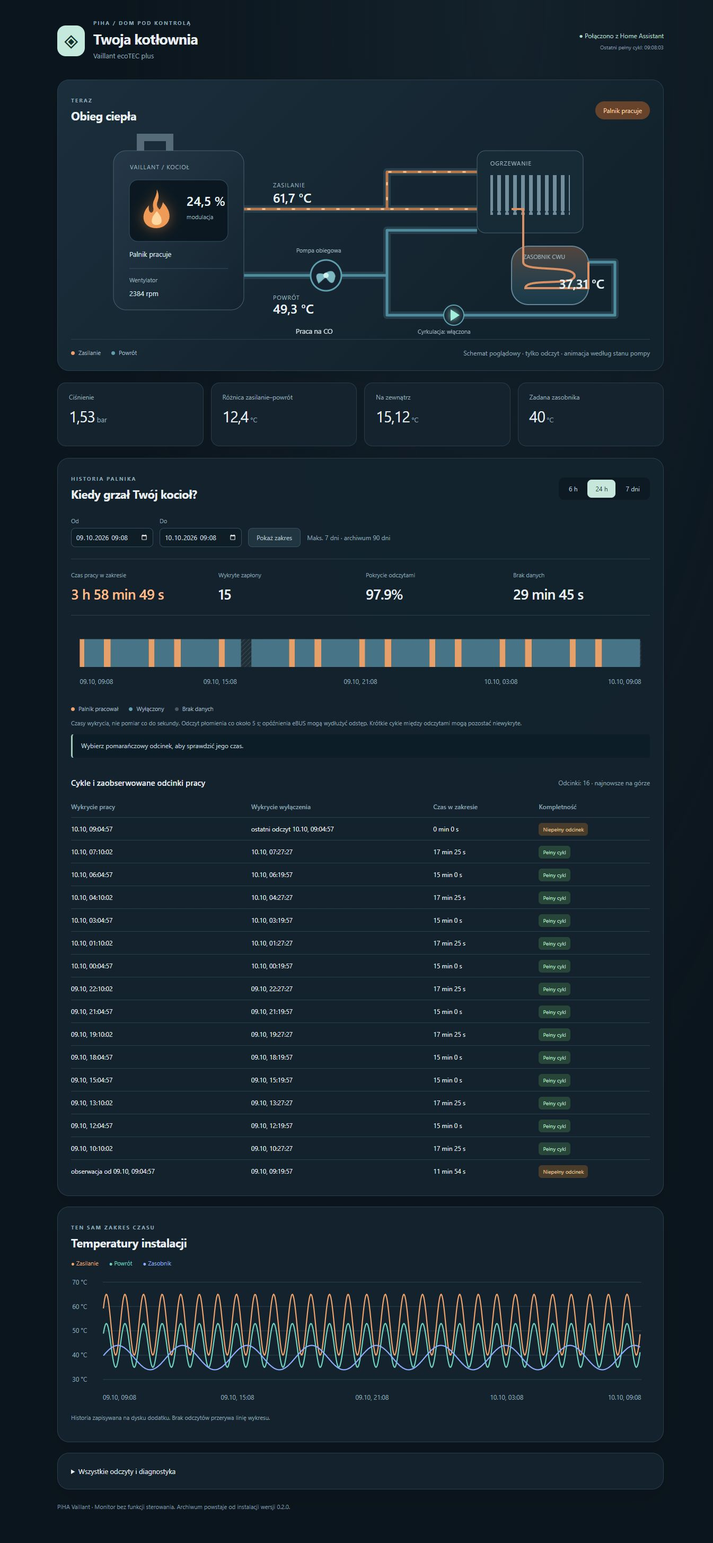
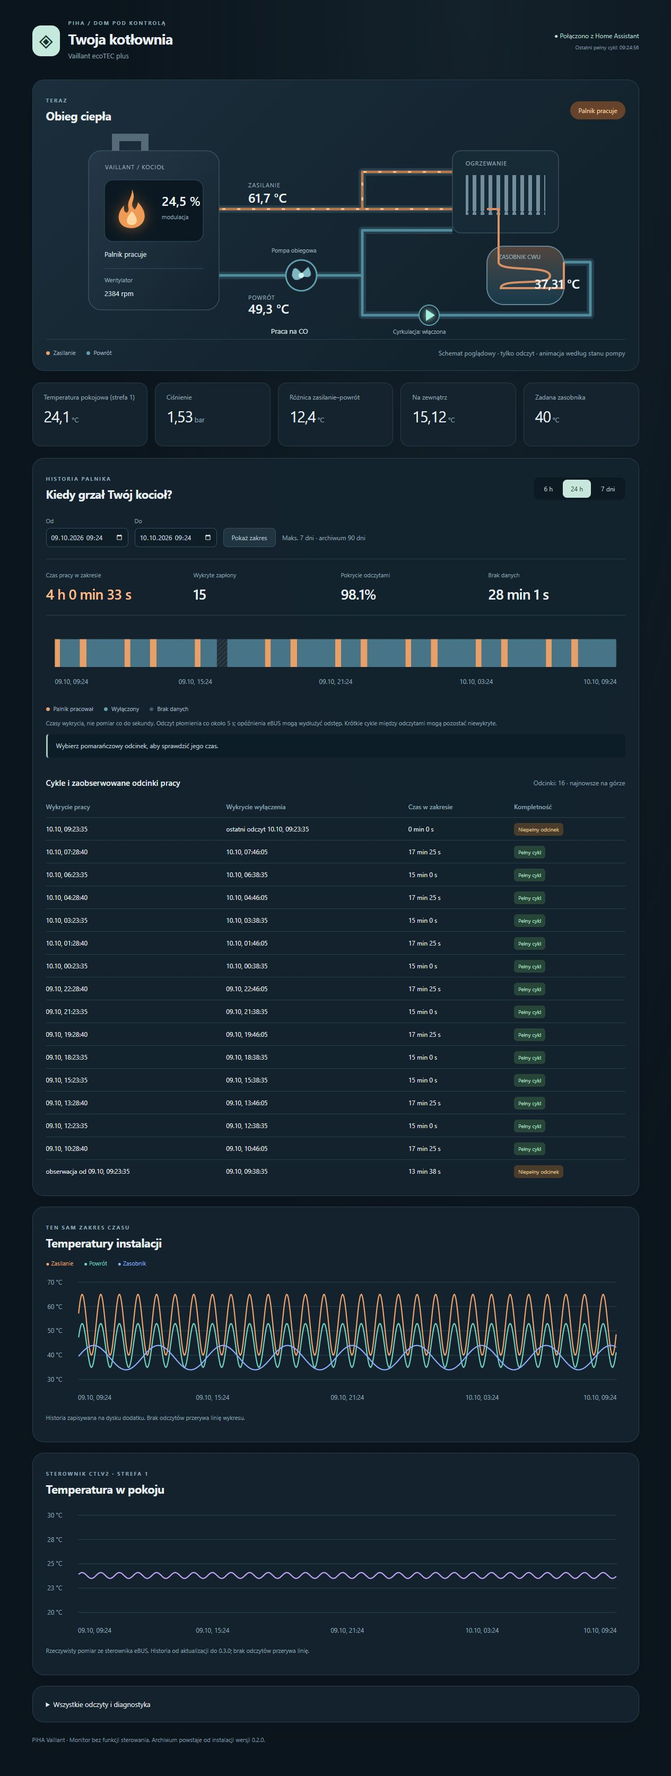
Add CTLV2 room temperature and history in version 0.3.0

diff --git a/pihavaillant/frontend/style.css b/pihavaillant/frontend/style.css
@@ -1,1 +1,1 @@
-:root{color-scheme:dark;font-family:Inter,ui-sans-serif,system-ui,sans-serif;background:#0b151d;color:#e9eff3;font-synthesis:none}*{box-sizing:border-box}body{margin:0;background:radial-gradient(ellipse at 70% 0,#20344166,transparent 55%)}main{max-width:1200px;margin:auto;padding:36px 28px}header,.section-head{display:flex;align-items:center;justify-content:space-between;gap:20px}header{margin-bottom:32px}.brand{display:flex;align-items:center;gap:16px}.brand-icon{display:grid;place-items:center;width:52px;height:58px;border-radius:16px;background:#c5e9dc;color:#16332c;font-size:38px}.eyebrow{font-size:10px;font-weight:650;letter-spacing:2px;color:#8fa9b8}h1{font-size:27px;letter-spacing:-.8px;margin:5px 0}h1 span{display:block;font-size:13px;color:#8ea5b3;letter-spacing:0;font-weight:400;margin-top:5px}h2{font-size:22px;letter-spacing:-.5px;margin:6px 0}h3{font-size:15px;font-weight:550}p{line-height:1.65}.connection{text-align:right;font-size:12px;color:#b4dacc}.connection small{display:block;color:#8599a7;margin-top:7px}.panel{background:#13232ef0;border:1px solid #2a3e4c;border-radius:22px;padding:25px;margin-bottom:20px;box-shadow:0 15px 50px #00000012}.plant{background:linear-gradient(135deg,#1b2e3b,#13232e 75%)}.pill{font-size:12px;padding:9px 15px;border-radius:30px;background:#203944;color:#afcbd8}.pill.lit{background:#67432c;color:#ffd4a8}.schematic-wrap{max-width:1080px;margin:auto}#plant{width:100%;display:block}#plant text{font-family:inherit}.svg-label{font-size:11px;letter-spacing:1px;fill:#9cb3bf}.svg-number{font-size:24px;fill:#eaf4f6;font-weight:550}.svg-small{font-size:11px;fill:#9cb3bf}.svg-white{font-size:13px;fill:#dae9ed}.pipe-bg{stroke:#253e4c;stroke-width:14;fill:none;stroke-linejoin:round}.pipe{stroke-width:5;fill:none;stroke-linejoin:round}.hot{stroke:#b9774d}.cold{stroke:#4e8c9e}.flow-animation{fill:none;stroke:#ffca91;stroke-width:3;stroke-dasharray:6 22;opacity:0}.flow-animation.running{opacity:1;animation:flow 2s linear infinite}.rotor{transform-origin:475px 280px}.rotor.running{animation:spin 2s linear infinite}#flame-symbol{color:#576b77;opacity:.5}#flame-symbol.lit{color:#ef9a56;opacity:1;filter:drop-shadow(0 0 12px #eb873c88)}#circulation-symbol.active{fill:#a4efdb;filter:drop-shadow(0 0 6px #a4efdb)}.plant-foot,.legend{display:flex;flex-wrap:wrap;gap:20px;font-size:11px;color:#a5b9c5}.plant-foot{border-top:1px solid #2a414f;padding-top:17px}.plant-foot span:last-child{margin-left:auto}.dot{display:inline-block;width:7px;height:7px;border-radius:50%;margin-right:7px}.hot-dot{background:#efa36c}.cold-dot{background:#629eae}.unknown-dot{background:#4c5763}.muted,.note{color:#8fa5b3;font-size:12px}.grid{display:grid;grid-template-columns:repeat(4,1fr);gap:14px;margin:22px 0}.tile{border:1px solid #2b3c48;padding:18px 21px;border-radius:16px;background:#14232d}.label{font-size:12px;color:#98adba}.value{font-size:29px;letter-spacing:-1px;margin-top:9px;font-variant-numeric:tabular-nums}.unit{font-size:13px;color:#91aab9;letter-spacing:0}.error{font-size:11px;color:#ffbd82;min-height:14px;margin-top:5px}.presets{display:flex;padding:4px;border-radius:10px;background:#0d1a23;gap:4px}button,input{font:inherit}button{border:1px solid #365060;color:#b6c7d0;background:#203540;border-radius:8px;padding:9px 15px;cursor:pointer;font-size:12px}.presets button{border:0;background:transparent}.presets button.selected{background:#c8e7dc;color:#203e33}button:hover{filter:brightness(1.2)}button:focus-visible,input:focus-visible{outline:2px solid #a9e5d1;outline-offset:3px}.range-form{display:flex;flex-wrap:wrap;gap:12px;align-items:end;margin:22px 0}.range-form label{display:flex;flex-direction:column;gap:6px;color:#91a6b4;font-size:11px}.range-form input{background:#0f1d27;border:1px solid #354d5e;color:#d0dfe6;padding:8px;border-radius:8px;font-size:12px;max-width:100%}.range-form span{align-self:center;margin-top:20px}.stats{display:grid;grid-template-columns:repeat(4,1fr);gap:20px;padding:22px 0;border-top:1px solid #2b404e;border-bottom:1px solid #2b404e;margin:14px 0}.stats span{display:block;font-size:11px;color:#8fa7b5}.stats strong{display:block;margin-top:10px;font-size:27px;letter-spacing:-.8px;font-weight:550}.stats>div:first-child strong{color:#ffbc88}.chart,.burner-chart{display:block;width:100%;min-width:560px}.chart-scroll,.table-scroll{overflow-x:auto}.chart-scroll{margin:12px 0}svg text{fill:#92aabb;font-size:11px}.legend{margin:10px 0}.note{font-size:11px}.cycle-detail{background:#0d1d28;padding:12px 16px;border-left:3px solid #a4cdbf;border-radius:5px;font-size:12px;color:#c2d4dc}.compact{margin-top:22px}table{border-collapse:collapse;width:100%;text-align:left;font-size:12px}th{font-weight:500;color:#8da5b4;padding:12px 8px}td{padding:13px 8px;border-top:1px solid #283f4d;font-variant-numeric:tabular-nums}td:first-child,th:first-child{padding-left:0}.tag{font-size:10px;background:#274538;color:#b5e4c7;padding:5px 8px;border-radius:6px;white-space:nowrap}.tag.partial{background:#493c2b;color:#e9c798}.warn{color:#ffbd82;font-size:12px}summary{cursor:pointer;font-size:13px}footer{font-size:11px;color:#829ba9;margin:25px 0}@keyframes flow{to{stroke-dashoffset:-56}}@keyframes spin{to{transform:rotate(360deg)}}@media(prefers-reduced-motion:reduce){*{animation:none!important}}@media(max-width:800px){main{padding:22px 14px}.grid{grid-template-columns:repeat(2,1fr)}.stats{grid-template-columns:repeat(2,1fr)}.panel{padding:18px}.plant-foot span:last-child{margin-left:0}.section-head{flex-wrap:wrap}h1{font-size:22px}.connection{max-width:155px}.schematic-wrap{overflow-x:auto}#plant{min-width:680px}}@media(max-width:480px){header{align-items:flex-start;flex-direction:column;gap:14px}.connection{text-align:left;max-width:none}.brand-icon{width:43px;height:47px}.range-form label{width:100%}.range-form input{width:100%}.range-form span{margin:0}.tile{padding:16px}.value{font-size:25px}.stats strong{font-size:23px}.presets{width:100%}.presets button{flex:1}.table-scroll table{min-width:600px}h2{font-size:20px}}
+:root{color-scheme:dark;font-family:Inter,ui-sans-serif,system-ui,sans-serif;background:#0b151d;color:#e9eff3;font-synthesis:none}*{box-sizing:border-box}body{margin:0;background:radial-gradient(ellipse at 70% 0,#20344166,transparent 55%)}main{max-width:1200px;margin:auto;padding:36px 28px}header,.section-head{display:flex;align-items:center;justify-content:space-between;gap:20px}header{margin-bottom:32px}.brand{display:flex;align-items:center;gap:16px}.brand-icon{display:grid;place-items:center;width:52px;height:58px;border-radius:16px;background:#c5e9dc;color:#16332c;font-size:38px}.eyebrow{font-size:10px;font-weight:650;letter-spacing:2px;color:#8fa9b8}h1{font-size:27px;letter-spacing:-.8px;margin:5px 0}h1 span{display:block;font-size:13px;color:#8ea5b3;letter-spacing:0;font-weight:400;margin-top:5px}h2{font-size:22px;letter-spacing:-.5px;margin:6px 0}h3{font-size:15px;font-weight:550}p{line-height:1.65}.connection{text-align:right;font-size:12px;color:#b4dacc}.connection small{display:block;color:#8599a7;margin-top:7px}.panel{background:#13232ef0;border:1px solid #2a3e4c;border-radius:22px;padding:25px;margin-bottom:20px;box-shadow:0 15px 50px #00000012}.plant{background:linear-gradient(135deg,#1b2e3b,#13232e 75%)}.pill{font-size:12px;padding:9px 15px;border-radius:30px;background:#203944;color:#afcbd8}.pill.lit{background:#67432c;color:#ffd4a8}.schematic-wrap{max-width:1080px;margin:auto}#plant{width:100%;display:block}#plant text{font-family:inherit}.svg-label{font-size:11px;letter-spacing:1px;fill:#9cb3bf}.svg-number{font-size:24px;fill:#eaf4f6;font-weight:550}.svg-small{font-size:11px;fill:#9cb3bf}.svg-white{font-size:13px;fill:#dae9ed}.pipe-bg{stroke:#253e4c;stroke-width:14;fill:none;stroke-linejoin:round}.pipe{stroke-width:5;fill:none;stroke-linejoin:round}.hot{stroke:#b9774d}.cold{stroke:#4e8c9e}.flow-animation{fill:none;stroke:#ffca91;stroke-width:3;stroke-dasharray:6 22;opacity:0}.flow-animation.running{opacity:1;animation:flow 2s linear infinite}.rotor{transform-origin:475px 280px}.rotor.running{animation:spin 2s linear infinite}#flame-symbol{color:#576b77;opacity:.5}#flame-symbol.lit{color:#ef9a56;opacity:1;filter:drop-shadow(0 0 12px #eb873c88)}#circulation-symbol.active{fill:#a4efdb;filter:drop-shadow(0 0 6px #a4efdb)}.plant-foot,.legend{display:flex;flex-wrap:wrap;gap:20px;font-size:11px;color:#a5b9c5}.plant-foot{border-top:1px solid #2a414f;padding-top:17px}.plant-foot span:last-child{margin-left:auto}.dot{display:inline-block;width:7px;height:7px;border-radius:50%;margin-right:7px}.hot-dot{background:#efa36c}.cold-dot{background:#629eae}.unknown-dot{background:#4c5763}.muted,.note{color:#8fa5b3;font-size:12px}.grid{display:grid;grid-template-columns:repeat(5,minmax(0,1fr));gap:14px;margin:22px 0}.tile{border:1px solid #2b3c48;padding:18px 21px;border-radius:16px;background:#14232d}.label{font-size:12px;color:#98adba}.value{font-size:29px;letter-spacing:-1px;margin-top:9px;font-variant-numeric:tabular-nums}.unit{font-size:13px;color:#91aab9;letter-spacing:0}.error{font-size:11px;color:#ffbd82;min-height:14px;margin-top:5px}.presets{display:flex;padding:4px;border-radius:10px;background:#0d1a23;gap:4px}button,input{font:inherit}button{border:1px solid #365060;color:#b6c7d0;background:#203540;border-radius:8px;padding:9px 15px;cursor:pointer;font-size:12px}.presets button{border:0;background:transparent}.presets button.selected{background:#c8e7dc;color:#203e33}button:hover{filter:brightness(1.2)}button:focus-visible,input:focus-visible{outline:2px solid #a9e5d1;outline-offset:3px}.range-form{display:flex;flex-wrap:wrap;gap:12px;align-items:end;margin:22px 0}.range-form label{display:flex;flex-direction:column;gap:6px;color:#91a6b4;font-size:11px}.range-form input{background:#0f1d27;border:1px solid #354d5e;color:#d0dfe6;padding:8px;border-radius:8px;font-size:12px;max-width:100%}.range-form span{align-self:center;margin-top:20px}.stats{display:grid;grid-template-columns:repeat(4,1fr);gap:20px;padding:22px 0;border-top:1px solid #2b404e;border-bottom:1px solid #2b404e;margin:14px 0}.stats span{display:block;font-size:11px;color:#8fa7b5}.stats strong{display:block;margin-top:10px;font-size:27px;letter-spacing:-.8px;font-weight:550}.stats>div:first-child strong{color:#ffbc88}.chart,.burner-chart{display:block;width:100%;min-width:560px}.chart-scroll,.table-scroll{overflow-x:auto}.chart-scroll{margin:12px 0}svg text{fill:#92aabb;font-size:11px}.legend{margin:10px 0}.note{font-size:11px}.cycle-detail{background:#0d1d28;padding:12px 16px;border-left:3px solid #a4cdbf;border-radius:5px;font-size:12px;color:#c2d4dc}.compact{margin-top:22px}table{border-collapse:collapse;width:100%;text-align:left;font-size:12px}th{font-weight:500;color:#8da5b4;padding:12px 8px}td{padding:13px 8px;border-top:1px solid #283f4d;font-variant-numeric:tabular-nums}td:first-child,th:first-child{padding-left:0}.tag{font-size:10px;background:#274538;color:#b5e4c7;padding:5px 8px;border-radius:6px;white-space:nowrap}.tag.partial{background:#493c2b;color:#e9c798}.warn{color:#ffbd82;font-size:12px}summary{cursor:pointer;font-size:13px}footer{font-size:11px;color:#829ba9;margin:25px 0}@keyframes flow{to{stroke-dashoffset:-56}}@keyframes spin{to{transform:rotate(360deg)}}@media(prefers-reduced-motion:reduce){*{animation:none!important}}@media(max-width:800px){main{padding:22px 14px}.grid{grid-template-columns:repeat(2,minmax(0,1fr))}.grid .tile:first-child{grid-column:1 / -1}.stats{grid-template-columns:repeat(2,1fr)}.panel{padding:18px}.plant-foot span:last-child{margin-left:0}.section-head{flex-wrap:wrap}h1{font-size:22px}.connection{max-width:155px}.schematic-wrap{overflow-x:auto}#plant{min-width:680px}}@media(max-width:480px){header{align-items:flex-start;flex-direction:column;gap:14px}.connection{text-align:left;max-width:none}.brand-icon{width:43px;height:47px}.range-form label{width:100%}.range-form input{width:100%}.range-form span{margin:0}.tile{padding:16px}.value{font-size:25px}.stats strong{font-size:23px}.presets{width:100%}.presets button{flex:1}.table-scroll table{min-width:600px}h2{font-size:20px}}

diff --git a/pihavaillant/frontend/app.js b/pihavaillant/frontend/app.js
@@ -1,5 +1,5 @@
 const $ = id => document.getElementById(id);
-const metricKeys = ['pressure', 'delta_temp', 'outdoor_temp', 'storage_target'];
+const metricKeys = ['room_temp', 'pressure', 'delta_temp', 'outdoor_temp', 'storage_target'];
 const errors = {sensor_fault:'Błąd czujnika',invalid_field:'Pole niewiarygodne',out_of_range:'Poza zakresem',ebusd_error:'Brak odczytu ebusd',waiting:'Oczekiwanie',TimeoutError:'Przekroczony czas',missing_source:'Brak danych źródłowych',invalid_number_or_unit:'Nieprawidłowa wartość/jednostka'};
 let selectedHours = 24, customRange = null, historyBusy = false, selectedCycleStart = null;
 const fmtTime = ts => new Date(ts*1000).toLocaleString('pl-PL', {day:'2-digit',month:'2-digit',hour:'2-digit',minute:'2-digit',second:'2-digit'});
@@ -42,8 +42,8 @@ function renderBurner(data){
   if(cycles.length>200)$('cycle-count').textContent+=' · tabela: ostatnie 200';
   $('history-error').textContent=data.truncated?'Bardzo dużo przełączeń: wykres pokazuje ostatnie 5000 odcinków. Podsumowanie obejmuje cały zakres. Wybierz krótszy okres.':'';
 }
-function renderTemperatures(rows,r){const svg=$('chart');svg.replaceChildren();const vals=rows.flatMap(p=>[p.flow_temp,p.return_temp,p.storage_temp]).filter(v=>typeof v==='number');if(!vals.length){svgNode(svg,'text',{x:30,y:100},'Brak zapisanych temperatur w wybranym zakresie');return;}const lo=Math.floor(Math.min(...vals)/10)*10,hi=Math.max(lo+10,Math.ceil(Math.max(...vals)/10)*10),x=ts=>55+930*(ts-r.start)/(r.end-r.start);for(let i=0;i<=4;i++){const y=15+i*42;svgNode(svg,'line',{x1:55,y1:y,x2:985,y2:y,stroke:'#29404e'});svgNode(svg,'text',{x:2,y:y+4},(hi-(hi-lo)*i/4).toFixed(0)+' °C');}['flow_temp','return_temp','storage_temp'].forEach((key,i)=>{let path='',last=null;const maxGap=Math.max(420,(r.end-r.start)/800*2.5);for(const row of rows){if(row[key]===null||row[key]===undefined){last=null;continue;}const y=15+168*(hi-row[key])/(hi-lo);path+=(last===null||row.ts-last>maxGap?'M':'L')+x(row.ts)+','+y;last=row.ts;if(rows.length===1)svgNode(svg,'circle',{cx:x(row.ts),cy:y,r:3,fill:['#f3a56d','#70d4c0','#8daeff'][i]});}svgNode(svg,'path',{d:path,fill:'none',stroke:['#f3a56d','#70d4c0','#8daeff'][i],'stroke-width':2});});for(let i=0;i<=4;i++)svgNode(svg,'text',{x:55+930*i/4,y:218,'text-anchor':i===0?'start':i===4?'end':'middle'},new Date((r.start+(r.end-r.start)*i/4)*1000).toLocaleString('pl-PL',{day:'2-digit',month:'2-digit',hour:'2-digit',minute:'2-digit'}));}
-async function loadHistory(){if(historyBusy)return;historyBusy=true;try{const r=range(),query=`?start=${r.start}&end=${r.end}`;const responses=await Promise.all([fetch('api/burner'+query),fetch('api/history'+query)]);if(responses.some(x=>!x.ok))throw Error();const [burner,temps]=await Promise.all(responses.map(x=>x.json()));renderBurner(burner);renderTemperatures(temps,burner);}catch(e){$('history-error').textContent='Nie udało się pobrać historii. Wyświetlone dane mogą być nieaktualne.';}finally{historyBusy=false;}}
+function renderTemperatures(rows,r,keys=['flow_temp','return_temp','storage_temp'],chartId='chart',colors=['#f3a56d','#70d4c0','#8daeff']){const svg=$(chartId);svg.replaceChildren();const vals=rows.flatMap(p=>keys.map(key=>p[key])).filter(v=>typeof v==='number');if(!vals.length){svgNode(svg,'text',{x:30,y:100},'Brak zapisanych temperatur w wybranym zakresie');return;}const lo=Math.floor(Math.min(...vals)/10)*10,hi=Math.max(lo+10,Math.ceil(Math.max(...vals)/10)*10),x=ts=>55+930*(ts-r.start)/(r.end-r.start);for(let i=0;i<=4;i++){const y=15+i*42;svgNode(svg,'line',{x1:55,y1:y,x2:985,y2:y,stroke:'#29404e'});svgNode(svg,'text',{x:2,y:y+4},(hi-(hi-lo)*i/4).toFixed(0)+' °C');}keys.forEach((key,i)=>{let path='',last=null;const maxGap=Math.max(420,(r.end-r.start)/800*2.5);for(const row of rows){if(row[key]===null||row[key]===undefined){last=null;continue;}const y=15+168*(hi-row[key])/(hi-lo);path+=(last===null||row.ts-last>maxGap?'M':'L')+x(row.ts)+','+y;last=row.ts;if(rows.length===1)svgNode(svg,'circle',{cx:x(row.ts),cy:y,r:3,fill:colors[i]});}svgNode(svg,'path',{d:path,fill:'none',stroke:colors[i],'stroke-width':2});});for(let i=0;i<=4;i++)svgNode(svg,'text',{x:55+930*i/4,y:218,'text-anchor':i===0?'start':i===4?'end':'middle'},new Date((r.start+(r.end-r.start)*i/4)*1000).toLocaleString('pl-PL',{day:'2-digit',month:'2-digit',hour:'2-digit',minute:'2-digit'}));}
+async function loadHistory(){if(historyBusy)return;historyBusy=true;try{const r=range(),query=`?start=${r.start}&end=${r.end}`;const responses=await Promise.all([fetch('api/burner'+query),fetch('api/history'+query)]);if(responses.some(x=>!x.ok))throw Error();const [burner,temps]=await Promise.all(responses.map(x=>x.json()));renderBurner(burner);renderTemperatures(temps,burner);renderTemperatures(temps,burner,['room_temp'],'room-chart',['#c2a5ff']);}catch(e){$('history-error').textContent='Nie udało się pobrać historii. Wyświetlone dane mogą być nieaktualne.';}finally{historyBusy=false;}}
 async function refresh(){try{const response=await fetch('api/state');if(!response.ok)throw Error();renderState(await response.json());}catch(e){$('connection').textContent='Brak połączenia — dane nieaktualne';['pump-rotor','flow-animation'].forEach(id=>$(id).classList.remove('running'));$('flame-symbol').classList.remove('lit');$('plant-state').classList.remove('lit');$('plant-state').textContent='Brak aktualnego odczytu';$('flame-label').textContent='Stan płomienia nieznany';$('circulation-symbol').classList.remove('active');}finally{setTimeout(refresh,5000);}}
 document.querySelectorAll('[data-hours]').forEach(button=>button.addEventListener('click',()=>{selectedHours=Number(button.dataset.hours);customRange=null;document.querySelectorAll('[data-hours]').forEach(b=>b.classList.toggle('selected',b===button));setRangeInputs();loadHistory();}));
 $('range-form').addEventListener('submit',e=>{e.preventDefault();const start=new Date($('range-start').value).getTime()/1000,end=Math.min(Date.now()/1000,new Date($('range-end').value).getTime()/1000);if(!Number.isFinite(start)||!Number.isFinite(end)||end<=start||end-start>604800){$('history-error').textContent='Wybierz poprawny zakres do 7 dni, kończący się nie później niż teraz.';return;}customRange={start,end};document.querySelectorAll('[data-hours]').forEach(b=>b.classList.remove('selected'));loadHistory();});

diff --git a/pihavaillant/frontend/index.html b/pihavaillant/frontend/index.html
@@ -1,5 +1,5 @@
 <!doctype html>
-<html lang="pl"><head><meta charset="utf-8"><meta name="viewport" content="width=device-width,initial-scale=1"><title>PiHA · Vaillant</title><link rel="stylesheet" href="style.css"></head>
+<html lang="pl"><head><meta charset="utf-8"><meta name="viewport" content="width=device-width,initial-scale=1"><title>PiHA · Vaillant</title><link rel="stylesheet" href="style.css?v=0.3.0"></head>
 <body><main>
 <header><div class="brand"><span class="brand-icon">◈</span><div><div class="eyebrow">PIHA / DOM POD KONTROLĄ</div><h1>Twoja kotłownia<span>Vaillant ecoTEC plus</span></h1></div></div><div class="connection"><span id="connection" role="status">Łączenie…</span><small id="updated">Oczekiwanie na odczyty</small></div></header>
 <section class="plant panel"><div class="section-head"><div><span class="eyebrow">TERAZ</span><h2>Obieg ciepła</h2></div><span class="pill" id="plant-state">Stan nieznany</span></div>
@@ -39,6 +39,7 @@
 <div class="section-head compact"><h3>Cykle i zaobserwowane odcinki pracy</h3><span id="cycle-count" class="muted"></span></div>
 <div class="table-scroll"><table><thead><tr><th>Wykrycie pracy</th><th>Wykrycie wyłączenia</th><th>Czas w zakresie</th><th>Kompletność</th></tr></thead><tbody id="cycles"></tbody></table></div></section>
 <section class="panel"><div class="section-head"><div><span class="eyebrow">TEN SAM ZAKRES CZASU</span><h2>Temperatury instalacji</h2></div></div><div class="legend"><span style="color:#f3a56d">● Zasilanie</span><span style="color:#70d4c0">● Powrót</span><span style="color:#8daeff">● Zasobnik</span></div><div class="chart-scroll"><svg id="chart" viewBox="0 0 1000 230" class="chart" role="img" aria-label="Wykres temperatur"></svg></div><p class="note">Historia zapisywana na dysku dodatku. Brak odczytów przerywa linię wykresu.</p></section>
+<section class="panel"><div class="section-head"><div><span class="eyebrow">STEROWNIK CTLV2 · STREFA 1</span><h2>Temperatura w pokoju</h2></div></div><div class="chart-scroll"><svg id="room-chart" viewBox="0 0 1000 230" class="chart" role="img" aria-label="Historia temperatury pokojowej"></svg></div><p class="note">Rzeczywisty pomiar ze sterownika eBUS. Historia od aktualizacji do 0.3.0; brak odczytów przerywa linię.</p></section>
 <section class="panel"><details><summary>Wszystkie odczyty i diagnostyka</summary><div class="table-scroll"><table><thead><tr><th>Parametr</th><th>Wartość</th><th>Jakość</th></tr></thead><tbody id="details"></tbody></table></div></details></section>
 <footer>PiHA Vaillant · Monitor bez funkcji sterowania. Archiwum powstaje od instalacji wersji 0.2.0.</footer>
-</main><script src="app.js"></script></body></html>
+</main><script src="app.js?v=0.3.0"></script></body></html>

diff --git a/tests/test_monitor.py b/tests/test_monitor.py
@@ -13,6 +13,17 @@ FIXTURE = Path(__file__).parent / "fixtures" / "ebusd-export.json"
 
 
 class ParsingTests(unittest.TestCase):
+    def test_room_temperature_and_wrong_circuit(self):
+        metric = BY_KEY["room_temp"]
+        self.assertEqual(extract(metric, parse_verbose("ctlv2 Z1RoomTemp value=24.1 °C")), 24.1)
+        for raw in ("value=-", "value=65535 °C", "value=24 bar", "value=24 °C;sensor=cutoff"):
+            with self.subTest(raw=raw), self.assertRaises(ValueError):
+                extract(metric, parse_verbose(raw))
+        item = {"name": "Z1RoomTemp", "circuit": "bai", "status": "ok", "fields": [{"field": "value", "value": 24.1}]}
+        self.assertNotIn("room_temp", parse_snapshot({"messages": [item]}))
+        item["circuit"] = "ctlv2"
+        self.assertEqual(parse_snapshot({"messages": [item]})["room_temp"]["value"], 24.1)
+
     def test_real_snapshot(self):
         values = parse_snapshot(json.loads(FIXTURE.read_text(encoding="utf-8")))
         self.assertEqual(values["return_temp"]["value"], 42.12)
@@ -58,6 +69,21 @@ class ParsingTests(unittest.TestCase):
 
 
 class TransportTests(unittest.IsolatedAsyncioTestCase):
+    async def test_room_routes_to_controller_and_boiler_keeps_configured_circuit(self):
+        commands = []
+        async def handle(reader, writer):
+            commands.append((await reader.readline()).decode())
+            writer.write(b"value=24.1\n\n")
+            await writer.drain()
+            writer.close()
+            await writer.wait_closed()
+        server = await asyncio.start_server(handle, "127.0.0.1", 0)
+        async with server:
+            client = EbusClient("127.0.0.1", server.sockets[0].getsockname()[1], circuit="custom")
+            self.assertEqual(extract(BY_KEY["room_temp"], await client.read("Z1RoomTemp")), 24.1)
+            await client.read("FlowTemp")
+        self.assertEqual(commands, ["read -V -m 30 -c ctlv2 Z1RoomTemp\n", "read -V -m 30 -c custom FlowTemp\n"])
+
     async def test_fragmented_response_and_allowlist(self):
         commands = []
         async def handle(reader, writer):
@@ -124,6 +150,7 @@ class PollTests(unittest.IsolatedAsyncioTestCase):
         from unittest.mock import AsyncMock
         fixture = json.loads(FIXTURE.read_text(encoding="utf-8"))
         raw = {item["name"]: item["raw"] for item in fixture["messages"]}
+        raw["Z1RoomTemp"] = "ctlv2 Z1RoomTemp value=24.1 °C"
         async def read(message, age):
             return parse_verbose(raw[message])
         monitor = Monitor({**load_options(), "history_path": ":memory:"})
@@ -132,10 +159,14 @@ class PollTests(unittest.IsolatedAsyncioTestCase):
         with patch("backend.main.asyncio.sleep", new_callable=AsyncMock):
             await monitor.poll()
             self.assertEqual(monitor.values["delta_temp"]["value"], 3.57)
+            self.assertEqual(monitor.values["room_temp"]["value"], 24.1)
+            raw["Z1RoomTemp"] = "ERR: element not found"
             self.assertIsNone(monitor.values["hwc_temp"]["value"])
             self.assertFalse(monitor.snapshot()["stale"])
             monitor.client.read.reset_mock()
             await monitor.poll()
+            self.assertIsNone(monitor.values["room_temp"]["value"])
+            self.assertEqual(monitor.values["flow_temp"]["value"], 45.69)
             self.assertNotIn("HcHours", [c.args[0] for c in monitor.client.read.call_args_list])
             monitor.client.read.side_effect = TimeoutError()
             await monitor.poll()

diff --git a/pihavaillant/backend/metrics.py b/pihavaillant/backend/metrics.py
@@ -18,9 +18,11 @@ class Metric:
     state_class: str | None = "measurement"
     diagnostic: bool = False
     slow: bool = False
+    circuit: str | None = None
 
 
 METRICS = [
+    Metric("room_temp", "Temperatura pokojowa (strefa 1)", "Z1RoomTemp", unit="°C", low=-30, high=60, device_class="temperature", circuit="ctlv2"),
     Metric("flow_temp", "Zasilanie", "FlowTemp", "temp", "°C", -30, 130, device_class="temperature"),
     Metric("return_temp", "Powrót", "ReturnTemp", "temp", "°C", -30, 130, device_class="temperature"),
     Metric("storage_temp", "Zasobnik CWU", "StorageTemp", "temp", "°C", -30, 100, device_class="temperature"),
@@ -107,11 +109,9 @@ def parse_snapshot(payload: dict) -> dict:
     """Import the supplied export for offline replay; never publish it as live data."""
     result = {}
     for item in payload["messages"]:
-        if item.get("circuit") != "bai":
-            continue
         fields = {f["field"]: f for f in item.get("fields", [])}
         for metric in METRICS:
-            if metric.message != item["name"]:
+            if metric.message != item["name"] or item.get("circuit") != (metric.circuit or "bai"):
                 continue
             try:
                 if item.get("status") != "ok":

diff --git a/pihavaillant/backend/ebus.py b/pihavaillant/backend/ebus.py
@@ -1,6 +1,6 @@
 import asyncio
 import re
-from .metrics import MESSAGES, parse_verbose
+from .metrics import METRICS, MESSAGES, parse_verbose
 
 
 class EbusClient:
@@ -12,10 +12,11 @@ class EbusClient:
     async def read(self, message, max_age=30):
         if message not in MESSAGES:
             raise ValueError("Message is not in the read-only allowlist")
+        circuit = next(m.circuit for m in METRICS if m.message == message) or self.circuit
         async with asyncio.timeout(self.timeout):
             reader, writer = await asyncio.open_connection(self.host, self.port, limit=65536)
             try:
-                writer.write(f"read -V -m {int(max_age)} -c {self.circuit} {message}\n".encode())
+                writer.write(f"read -V -m {int(max_age)} -c {circuit} {message}\n".encode())
                 await writer.drain()
                 response = await reader.readuntil(b"\n\n")
                 return parse_verbose(response.decode("utf-8", errors="replace"))

diff --git a/tests/test_history.py b/tests/test_history.py
@@ -81,6 +81,16 @@ class HistoryTests(unittest.TestCase):
         self.h.observe("OFF",100+91*86400)
         self.assertEqual(self.h.temperatures(99,106),[])
 
+    def test_room_history_preserves_older_records_and_gaps(self):
+        self.h.db.execute("INSERT INTO temperatures VALUES(?,?)", (100, '{"flow_temp":60}'))
+        self.h.add_temperatures({"room_temp": {"value": 24.1}}, 105)
+        self.h.add_temperatures({"room_temp": {"value": None}}, 110)
+        rows = self.h.temperatures(99, 111)
+        self.assertEqual(rows[0]["flow_temp"], 60)
+        self.assertNotIn("room_temp", rows[0])
+        self.assertEqual(rows[1]["room_temp"], 24.1)
+        self.assertIsNone(rows[2]["room_temp"])
+
     def test_temperature_response_bounded(self):
         for i in range(1600):
             self.h.add_temperatures({"flow_temp":{"value":i%100}},100+i)

diff --git a/pihavaillant/backend/mqtt.py b/pihavaillant/backend/mqtt.py
@@ -14,7 +14,7 @@ def discovery(metric, device_id, expiry):
         "availability": [{"topic": f"{base}/status"}, {"topic": f"{base}/{metric.key}/availability"}],
         "availability_mode": "all",
         "expire_after": expiry,
-        "device": {"identifiers": [f"pihavaillant_{device_id}"], "name": f"Vaillant {device_id}", "manufacturer": "Vaillant", "model": "ecoTEC plus (ebusd)", "sw_version": "0.2.0"},
+        "device": {"identifiers": [f"pihavaillant_{device_id}"], "name": f"Vaillant {device_id}", "manufacturer": "Vaillant", "model": "ecoTEC plus (ebusd)", "sw_version": "0.3.0"},
     }
     for key, value in [("unit_of_measurement", metric.unit), ("device_class", metric.device_class), ("state_class", metric.state_class)]:
         if value:

diff --git a/pihavaillant/backend/history.py b/pihavaillant/backend/history.py
@@ -59,7 +59,7 @@ class History:
 
     def add_temperatures(self, values, ts=None):
         ts = time.time() if ts is None else ts
-        payload = {key: values.get(key, {}).get("value") for key in ("flow_temp", "return_temp", "storage_temp", "modulation")}
+        payload = {key: values.get(key, {}).get("value") for key in ("flow_temp", "return_temp", "storage_temp", "room_temp", "modulation")}
         self.db.execute("INSERT OR REPLACE INTO temperatures VALUES(?,?)", (ts, json.dumps(payload)))
         self.db.commit()
 

diff --git a/README.md b/README.md
@@ -1,6 +1,6 @@
 # PiHA Vaillant
 
-**Wersja 0.2.0:** schemat kotłowni i trwała historia palnika.
+**Wersja 0.3.0:** temperatura pokojowa ze sterownika CTLV2, schemat kotłowni i trwała historia palnika.
 W HA odśwież repozytoria w sklepie dodatków, otwórz PiHA Vaillant i wybierz
 **Aktualizuj**. Zachowano slug i identyfikatory encji; nie trzeba dodawać
 integracji ponownie. Nowa historia zaczyna być zbierana po aktualizacji.
@@ -194,3 +194,25 @@ Analiza konkretnego eksportu: [docs/DATA.md](docs/DATA.md).
 Protokół: https://github.com/john30/ebusd/wiki/3.1.-TCP-client-commands
 Discovery: https://www.home-assistant.io/integrations/mqtt/
 Ingress: https://developers.home-assistant.io/docs/apps/presentation/
+
+## Temperatura pokojowa CTLV2 (od 0.3.0)
+
+Dodatek odczytuje rzeczywistą temperaturę strefy 1 z `ctlv2 Z1RoomTemp`.
+W dostarczonej liście eBUS sterownik CTLV2 udostępniał 24,1°C.
+To pomiar pokojowy, nie temperatura zadana. Odczyt korzysta z tego samego
+hosta i portu ebusd co kocioł, ale zawsze z obiegu `ctlv2`. Pozostaw `circuit: bai`
+dla kotła. Nie trzeba dodawać kolejnego połączenia ani zmieniać konfiguracji.
+
+Po aktualizacji i uruchomieniu dodatku MQTT Discovery dodaje sensor
+`sensor.pihavaillant_boiler_room_temp` (dla domyślnego `device_id: boiler`; HA
+może nadać inną nazwę przy konflikcie). Panel pokazuje kafelek i osobny wykres
+pokojowy z tym samym zakresem czasu co palnik. Archiwum 90 dni zaczyna się
+od pierwszego odczytu po aktualizacji; istniejąca historia kotła pozostaje.
+Brak odpowiedzi, błędne dekodowanie, niedostępny czujnik lub wartość poza
+zakresem -30…60°C daje niedostępność, nigdy zastępcze 0°C. Odczyt jest read-only.
+
+W razie braku pomiaru sprawdź `ebusctl read -V -f -c ctlv2 Z1RoomTemp`.
+Oczekiwane pole w konfiguracji CTLV2 to `value`, np. `value=24.1 °C`.
+Strefy 2 i 3 oraz temperatura zadana miały w dostarczonej liście `no data stored`;
+nie są automatycznie traktowane jako aktywne czujniki.
+Źródło definicji: https://ebus.github.io/en/vaillant/15.ctlv2.csv.

diff --git a/pihavaillant/DOCS.md b/pihavaillant/DOCS.md
@@ -17,3 +17,25 @@ Czasy są przybliżone do odczytów (około 5 s plus opóźnienia eBUS), a luki
 w komunikacji nie są liczone jako praca. Aktualizuj dodatek bez odinstalowywania.
 
 Dodatek nie steruje kotłem ani nie resetuje błędów. Nie przelicza modulacji na kW.
+
+## Temperatura pokojowa CTLV2 (od 0.3.0)
+
+Dodatek odczytuje rzeczywistą temperaturę strefy 1 z `ctlv2 Z1RoomTemp`.
+W dostarczonej liście eBUS sterownik CTLV2 udostępniał 24,1°C.
+To pomiar pokojowy, nie temperatura zadana. Odczyt korzysta z tego samego
+hosta i portu ebusd co kocioł, ale zawsze z obiegu `ctlv2`. Pozostaw `circuit: bai`
+dla kotła. Nie trzeba dodawać kolejnego połączenia ani zmieniać konfiguracji.
+
+Po aktualizacji i uruchomieniu dodatku MQTT Discovery dodaje sensor
+`sensor.pihavaillant_boiler_room_temp` (dla domyślnego `device_id: boiler`; HA
+może nadać inną nazwę przy konflikcie). Panel pokazuje kafelek i osobny wykres
+pokojowy z tym samym zakresem czasu co palnik. Archiwum 90 dni zaczyna się
+od pierwszego odczytu po aktualizacji; istniejąca historia kotła pozostaje.
+Brak odpowiedzi, błędne dekodowanie, niedostępny czujnik lub wartość poza
+zakresem -30…60°C daje niedostępność, nigdy zastępcze 0°C. Odczyt jest read-only.
+
+W razie braku pomiaru sprawdź `ebusctl read -V -f -c ctlv2 Z1RoomTemp`.
+Oczekiwane pole w konfiguracji CTLV2 to `value`, np. `value=24.1 °C`.
+Strefy 2 i 3 oraz temperatura zadana miały w dostarczonej liście `no data stored`;
+nie są automatycznie traktowane jako aktywne czujniki.
+Źródło definicji: https://ebus.github.io/en/vaillant/15.ctlv2.csv.

diff --git a/docs/VALIDATION.md b/docs/VALIDATION.md
@@ -1,8 +1,13 @@
-# Weryfikacja wydania 0.2.0 — 2026-10-10
+# Weryfikacja wydania 0.3.0 — 2026-10-10
 
 ## Wykonane lokalnie
 
-- 20 testów unittest: wszystkie zakończone poprawnie na Pythonie 3.12.14.
+- CTLV2: odczyt pokojowy 24,1°C, walidacja błędnych wartości, rozdzielenie
+  obiegów sterownika i kotła, awaria sterownika bez utraty odczytów kotła.
+- Historia pokojowa zachowuje poprzednie rekordy bez nowego pola i przerwy w danych.
+- Panel 0.3.0: kafelek 24,1°C i osobny wykres w zakresie 6 h; brak błędów JavaScript.
+
+- 23 testy unittest: wszystkie zakończone poprawnie na Pythonie 3.12.14.
 - Testy historii obejmują pełny cykl, timeout, długą przerwę, restart podczas
   pracy, przycinanie do zakresu, brak dopisywania czasu po ostatniej próbce,
   cofnięcie zegara, retencję i ograniczenie liczby próbek temperatur.
